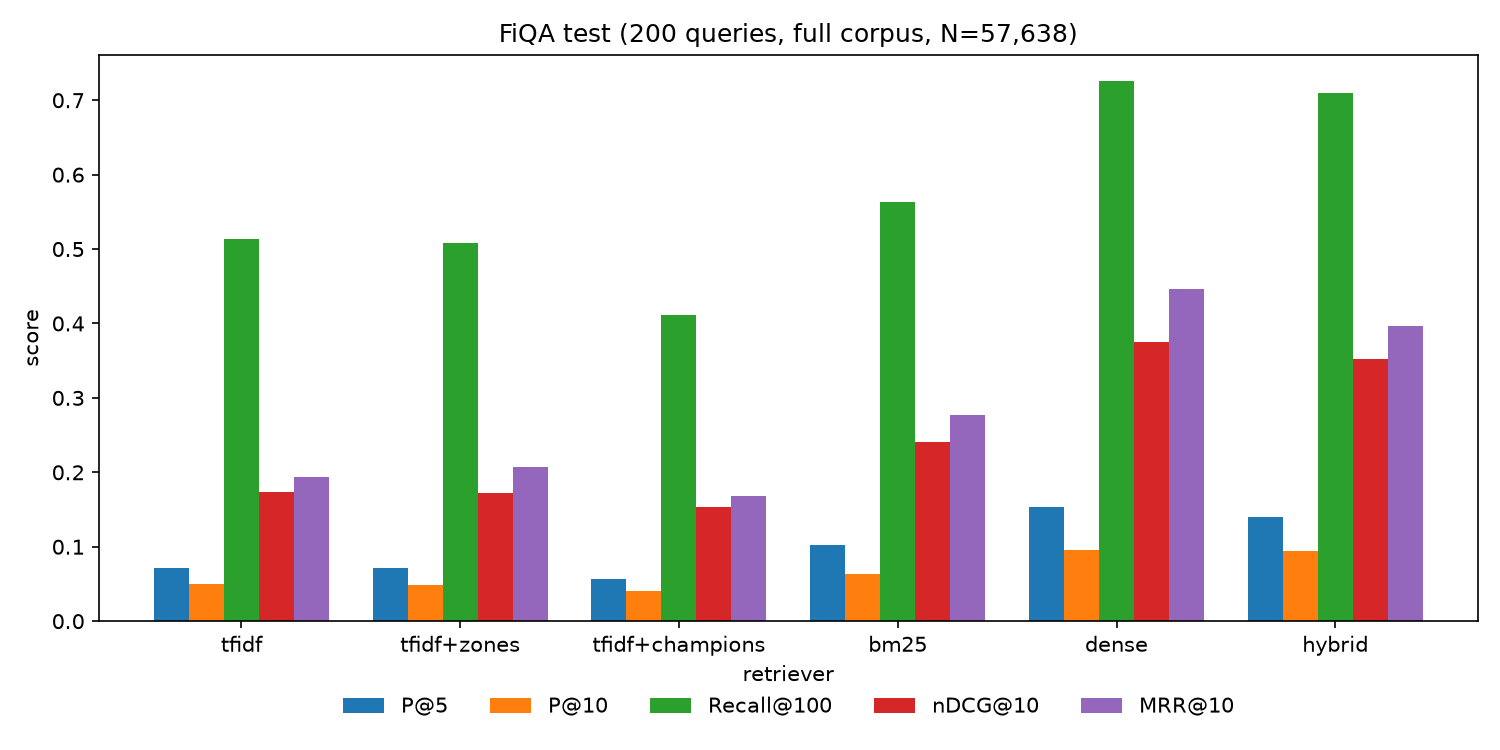
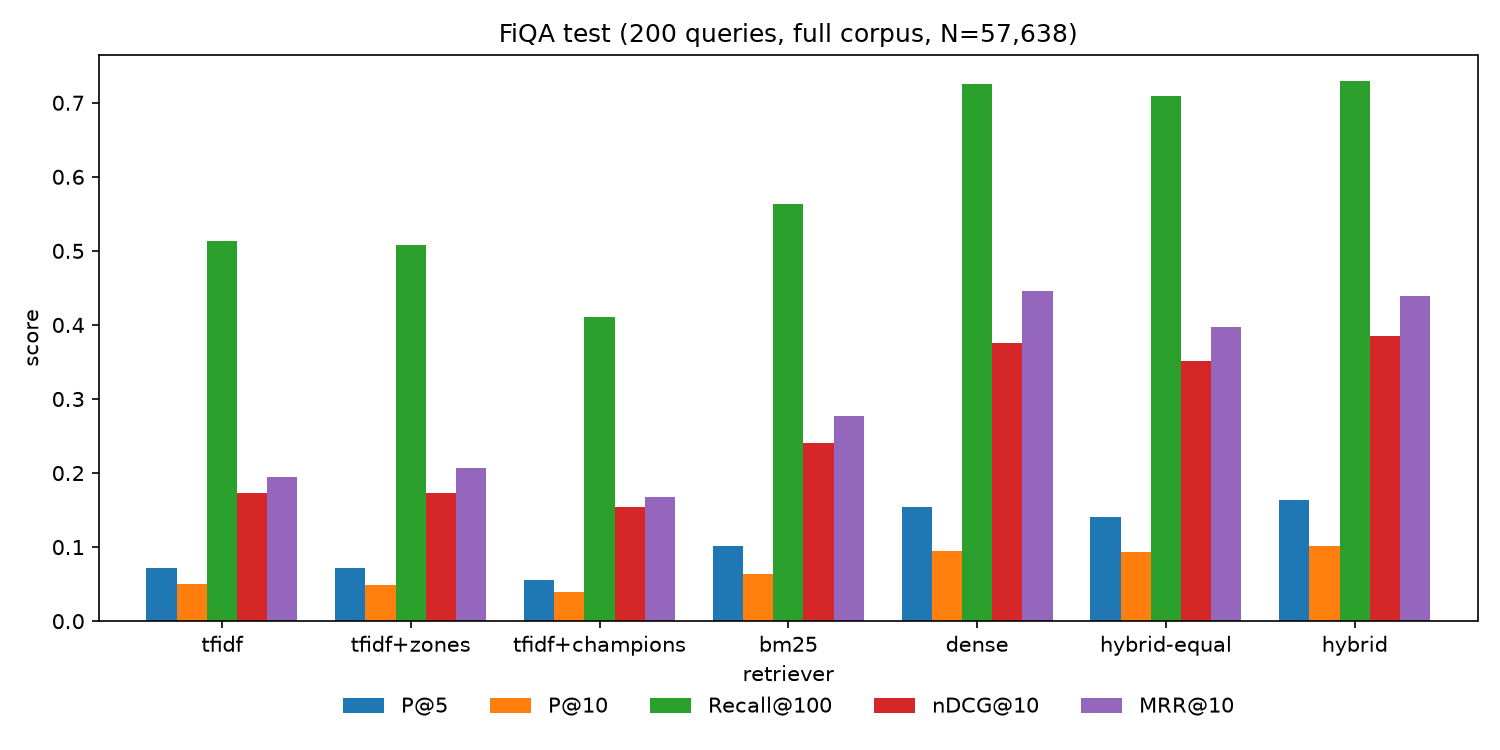
Weighted RRF tuned on dev; paired significance test vs dense

diff --git a/src/eval.py b/src/eval.py
@@ -3,6 +3,7 @@
     python -m src.eval retrievers [--full] [--only bm25 tfidf ...]
     python -m src.eval ablation   [--full]
     python -m src.eval zones      [--full]     # tune w_title on the dev split
+    python -m src.eval rrf        [--full]     # tune weighted-RRF w_dense and k on the dev split
     python -m src.eval citeguard  [--full]     # corruption test; tunes alpha/threshold on dev
     python -m src.eval labels                  # dump answers for manual labelling
     python -m src.eval agreement               # agreement once labels are filled in
@@ -26,7 +27,7 @@ from src.build import get_index
 from src.citeguard import SUPPORTED, CiteGuard, LexicalScorer, NLIScorer
 from src.config import load_config, path
 from src.data import load_qrels, load_queries, query_sample
-from src.metrics import mrr_at_k, ndcg_at_k, precision_at_k, recall_at_k
+from src.metrics import mrr_at_k, ndcg_at_k, paired_randomization, precision_at_k, recall_at_k
 from src.retrievers import ALL, SPARSE, make_retriever
 from src.text import TextProcessor
 
@@ -40,8 +41,9 @@ def results_dir():
     return d
 
 
-def evaluate(retriever, queries: dict[str, str], qrels: dict, depth: int = 100) -> dict:
-    """Mean metrics and mean latency (ms) of one retriever over the query set."""
+def evaluate(retriever, queries: dict[str, str], qrels: dict, depth: int = 100, per_query: list | None = None) -> dict:
+    """Mean metrics and mean latency (ms) of one retriever over the query set.
+    If `per_query` is a list, the per-query metric rows are appended to it."""
     rows, lat = [], []
     for qid, text in queries.items():
         t0 = time.perf_counter()
@@ -53,6 +55,8 @@ def evaluate(retriever, queries: dict[str, str], qrels: dict, depth: int = 100) 
             "Recall@100": recall_at_k(ranked, rel, 100), "nDCG@10": ndcg_at_k(ranked, rel, 10),
             "MRR@10": mrr_at_k(ranked, rel, 10),
         })
+    if per_query is not None:
+        per_query.extend(rows)
     out = pd.DataFrame(rows).mean().to_dict()
     out["latency_ms"] = sum(lat) / len(lat)
     return out
@@ -89,17 +93,38 @@ def run_retrievers(cfg, full: bool, names: list[str]) -> pd.DataFrame:
     queries, qrels = eval_queries(cfg)
     idx = get_index(cfg, full)
     mode = "full" if full else "sample"
-    rows = {}
+    rows, per_query = {}, {}
     for name in names:
         console.print(f"[bold]{name}[/] on {len(queries)} test queries ({mode}, N={idx.N:,})")
-        rows[name] = evaluate(make_retriever(name, cfg, idx, full), queries, qrels, cfg["retrieval"]["top_k"])
+        per_query[name] = []
+        rows[name] = evaluate(make_retriever(name, cfg, idx, full), queries, qrels,
+                              cfg["retrieval"]["top_k"], per_query[name])
     df = pd.DataFrame(rows).T
     df.index.name = "retriever"
     df.to_csv(results_dir() / f"retrievers_{mode}.csv", float_format="%.4f")
     bar_chart(df, f"FiQA test ({len(queries)} queries, {mode} corpus, N={idx.N:,})",
               results_dir() / f"retrievers_{mode}.png")
     show(df, f"retriever comparison — {mode}")
+    significance(per_query, mode)
     return df
+
+
+def significance(per_query: dict[str, list[dict]], mode: str) -> None:
+    """Paired randomisation tests of each hybrid against its best component (dense)."""
+    pairs = [(h, "dense") for h in ("hybrid", "hybrid-equal") if h in per_query and "dense" in per_query]
+    if not pairs:
+        return
+    rows = []
+    for a, b in pairs:
+        for m in ("nDCG@10", "MRR@10", "P@10", "Recall@100"):
+            x, y = [r[m] for r in per_query[a]], [r[m] for r in per_query[b]]
+            d = [i - j for i, j in zip(x, y)]
+            rows.append({"comparison": f"{a} vs {b}", "metric": m, "mean_diff": sum(d) / len(d),
+                         "wins": sum(v > 0 for v in d), "ties": sum(v == 0 for v in d),
+                         "losses": sum(v < 0 for v in d), "p_value": paired_randomization(x, y)})
+    df = pd.DataFrame(rows).set_index("comparison")
+    df.to_csv(results_dir() / f"significance_{mode}.csv", float_format="%.4f")
+    show(df, "paired randomisation tests (two-sided, 10k sign flips)")
 
 
 def run_ablation(cfg, full: bool) -> pd.DataFrame:
@@ -140,6 +165,39 @@ def run_zones(cfg, full: bool) -> pd.DataFrame:
     df.index.name = "zone weights (dev)"
     df.to_csv(results_dir() / f"zones_dev_{'full' if full else 'sample'}.csv", float_format="%.4f")
     show(df, "zone-weight tuning on dev")
+    return df
+
+
+def run_rrf(cfg, full: bool) -> pd.DataFrame:
+    """Tune weighted RRF (w_dense, k) on dev queries. Each base run is retrieved once and
+    fused in memory for every grid point."""
+    from src.dense import HybridRetriever
+
+    queries, qrels = eval_queries(cfg, "dev")
+    idx = get_index(cfg, full)
+    depth = cfg["retrieval"]["top_k"]
+    bases = [make_retriever(n, cfg, idx, full) for n in ("bm25", "dense")]
+    runs = {q: [[h.doc_id for h in r.search(t, k=depth)] for r in bases] for q, t in queries.items()}
+    rows = []
+    for k in cfg["experiment"]["rrf_k_grid"]:
+        for w in cfg["experiment"]["rrf_w_dense_grid"]:
+            ranked = {q: [d for d, _ in HybridRetriever.fuse(runs[q], k, [1 - w, w])[:depth]] for q in queries}
+            m = {name: sum(f(ranked[q], qrels[q], kk) for q in queries) / len(queries)
+                 for name, f, kk in [("nDCG@10", ndcg_at_k, 10), ("MRR@10", mrr_at_k, 10),
+                                     ("Recall@100", recall_at_k, 100), ("P@10", precision_at_k, 10)]}
+            rows.append({"k": k, "w_dense": w, **m})
+    for name, i in (("bm25 alone", 0), ("dense alone", 1)):
+        rel = [(runs[q][i], qrels[q]) for q in queries]
+        rows.append({"k": None, "w_dense": name, "nDCG@10": sum(ndcg_at_k(r, g, 10) for r, g in rel) / len(rel),
+                     "MRR@10": sum(mrr_at_k(r, g, 10) for r, g in rel) / len(rel),
+                     "Recall@100": sum(recall_at_k(r, g, 100) for r, g in rel) / len(rel),
+                     "P@10": sum(precision_at_k(r, g, 10) for r, g in rel) / len(rel)})
+    df = pd.DataFrame(rows)
+    df.to_csv(results_dir() / f"rrf_dev_{'full' if full else 'sample'}.csv", index=False, float_format="%.4f")
+    grid = df[df.k.notna()]
+    best = grid.loc[grid["nDCG@10"].idxmax()]
+    show(df.set_index("w_dense"), "weighted RRF tuning on dev")
+    console.print(f"[bold]best on dev:[/] k={int(best.k)}, w_dense={best.w_dense} (nDCG@10 {best['nDCG@10']:.4f})")
     return df
 
 
@@ -359,7 +417,7 @@ def agreement(cfg) -> dict:
 
 def main():
     ap = argparse.ArgumentParser(description=__doc__, formatter_class=argparse.RawDescriptionHelpFormatter)
-    ap.add_argument("experiment", choices=["retrievers", "ablation", "zones", "citeguard", "labels", "agreement"])
+    ap.add_argument("experiment", choices=["retrievers", "ablation", "zones", "rrf", "citeguard", "labels", "agreement"])
     ap.add_argument("--full", action="store_true")
     ap.add_argument("--only", nargs="*", default=None)
     ap.add_argument("--no-nli", action="store_true", help="citeguard: skip the NLI checker")
@@ -372,6 +430,8 @@ def main():
         run_ablation(cfg, args.full)
     elif args.experiment == "zones":
         run_zones(cfg, args.full)
+    elif args.experiment == "rrf":
+        run_rrf(cfg, args.full)
     elif args.experiment == "citeguard":
         run_citeguard(cfg, args.full, nli=not args.no_nli)
     elif args.experiment == "labels":

diff --git a/src/dense.py b/src/dense.py
@@ -47,19 +47,28 @@ class DenseRetriever:
 
 
 class HybridRetriever:
-    """Reciprocal Rank Fusion: score(d) = Σ_r 1 / (k + rank_r(d)), ranks starting at 1."""
+    """Weighted Reciprocal Rank Fusion: score(d) = Σ_r w_r / (k + rank_r(d)), ranks from 1.
+    Equal weights give plain RRF (Cormack et al., 2009)."""
     name = "hybrid"
 
-    def __init__(self, retrievers, k: int = 60, depth: int = 100):
-        self.retrievers, self.k, self.depth = retrievers, k, depth
+    def __init__(self, retrievers, k: int = 60, depth: int = 100, weights: list[float] | None = None,
+                 name: str = "hybrid"):
+        self.retrievers, self.k, self.depth, self.name = retrievers, k, depth, name
+        self.weights = weights or [1.0] * len(retrievers)
+
+    @staticmethod
+    def fuse(runs: list[list[str]], k: int, weights: list[float]) -> list[tuple[str, float]]:
+        """Fuse ranked doc-id lists; returns (doc_id, score) best first (ties by doc id)."""
+        fused: dict[str, float] = defaultdict(float)
+        for run, w in zip(runs, weights):
+            for rank, d in enumerate(run, 1):
+                fused[d] += w / (k + rank)
+        return sorted(fused.items(), key=lambda x: (-x[1], x[0]))
 
     def search(self, query: str, k: int = 10, explain: bool = False) -> list[Hit]:
-        fused: dict[str, float] = defaultdict(float)
-        parts: dict[str, dict[str, float]] = defaultdict(dict)
-        for r in self.retrievers:
-            for rank, h in enumerate(r.search(query, k=max(k, self.depth)), 1):
-                s = 1 / (self.k + rank)
-                fused[h.doc_id] += s
-                parts[h.doc_id][r.name] = s
-        ranked = sorted(fused.items(), key=lambda x: (-x[1], x[0]))[:k]
-        return [Hit(d, s, parts[d] if explain else {}) for d, s in ranked]
+        runs = [[h.doc_id for h in r.search(query, k=max(k, self.depth))] for r in self.retrievers]
+        ranked = self.fuse(runs, self.k, self.weights)[:k]
+        if not explain:
+            return [Hit(d, s) for d, s in ranked]
+        parts = [{d: w / (self.k + i) for i, d in enumerate(run, 1)} for run, w in zip(runs, self.weights)]
+        return [Hit(d, s, {r.name: p[d] for r, p in zip(self.retrievers, parts) if d in p}) for d, s in ranked]

diff --git a/src/retrievers.py b/src/retrievers.py
@@ -5,7 +5,7 @@ from src.index import InvertedIndex
 from src.sparse import BM25Retriever, TfidfRetriever
 
 SPARSE = ["tfidf", "tfidf+zones", "tfidf+champions", "bm25"]
-ALL = SPARSE + ["dense", "hybrid"]
+ALL = SPARSE + ["dense", "hybrid", "hybrid-equal"]
 
 
 def make_retriever(name: str, cfg: dict, index: InvertedIndex, full: bool = False):
@@ -18,11 +18,15 @@ def make_retriever(name: str, cfg: dict, index: InvertedIndex, full: bool = Fals
         return TfidfRetriever(index, champion_r=cfg["index"]["champion_r"])
     if name == "bm25":
         return BM25Retriever(index, k1=r["bm25_k1"], b=r["bm25_b"])
-    if name in ("dense", "hybrid"):
+    if name in ("dense", "hybrid", "hybrid-equal"):
         from src.dense import DenseRetriever, HybridRetriever
 
         dense = DenseRetriever.for_index(cfg, index, full)
         if name == "dense":
             return dense
-        return HybridRetriever([BM25Retriever(index, r["bm25_k1"], r["bm25_b"]), dense], k=r["rrf_k"])
+        bm25 = BM25Retriever(index, r["bm25_k1"], r["bm25_b"])
+        if name == "hybrid-equal":                   # plain RRF, k=60, for comparison
+            return HybridRetriever([bm25, dense], k=60, name="hybrid-equal")
+        w = r["rrf_w_dense"]
+        return HybridRetriever([bm25, dense], k=r["rrf_k"], weights=[1 - w, w])
     raise ValueError(f"unknown retriever {name!r}; choose from {ALL}")

diff --git a/tests/test_hybrid.py b/tests/test_hybrid.py
@@ -18,3 +18,17 @@ def test_rrf_fuses_ranks():
     assert [x.doc_id for x in hits] == ["y", "x", "w", "z"]
     assert hits[0].score == pytest.approx(1 / 62 + 1 / 61)
     assert hits[0].terms == {"a": pytest.approx(1 / 62), "b": pytest.approx(1 / 61)}
+
+
+def test_weighted_rrf_scales_each_retriever():
+    h = HybridRetriever([Fixed("a", ["x", "y"]), Fixed("b", ["y", "x"])], k=60, weights=[0.25, 0.75])
+    hits = h.search("q", k=2, explain=True)
+    assert [x.doc_id for x in hits] == ["y", "x"]
+    assert hits[0].score == pytest.approx(0.25 / 62 + 0.75 / 61)
+    assert hits[0].terms == {"a": pytest.approx(0.25 / 62), "b": pytest.approx(0.75 / 61)}
+
+
+def test_fuse_matches_search():
+    runs = [["x", "y", "z"], ["y", "w"]]
+    fused = HybridRetriever.fuse(runs, k=60, weights=[1.0, 2.0])
+    assert [d for d, _ in fused] == ["y", "w", "x", "z"]

diff --git a/src/metrics.py b/src/metrics.py
@@ -25,3 +25,13 @@ def ndcg_at_k(ranked, qrels, k):
     ideal = sorted(qrels.values(), reverse=True)[:k]
     idcg = sum(g / math.log2(i + 1) for i, g in enumerate(ideal, 1))
     return dcg / idcg if idcg else 0.0
+
+
+def paired_randomization(a, b, trials: int = 10000, seed: int = 42) -> float:
+    """Two-sided paired randomisation (sign-flip) test on per-query scores; returns the p-value."""
+    import numpy as np
+
+    diff = np.asarray(a, float) - np.asarray(b, float)
+    observed = abs(diff.mean())
+    signs = np.random.default_rng(seed).choice([-1.0, 1.0], size=(trials, len(diff)))
+    return float(np.mean(np.abs((signs * diff).mean(axis=1)) >= observed - 1e-12))

diff --git a/tests/test_metrics.py b/tests/test_metrics.py
@@ -24,3 +24,10 @@ def test_ndcg():
     dcg = 1 / math.log2(2) + 1 / math.log2(4)
     idcg = 1 / math.log2(2) + 1 / math.log2(3) + 1 / math.log2(4)
     assert ndcg_at_k(RANKED, QRELS, 10) == pytest.approx(dcg / idcg)
+
+
+def test_paired_randomization():
+    from src.metrics import paired_randomization
+
+    assert paired_randomization([1.0] * 30, [0.0] * 30) < 0.01      # consistent win
+    assert paired_randomization([1, 0] * 15, [0, 1] * 15) == 1.0    # no mean difference

diff --git a/README.md b/README.md
@@ -12,7 +12,7 @@ flowchart LR
     Q[question] --> TP[text pipeline<br/>src/text.py]
     TP --> SP[sparse: tf-idf lnc.ltc / BM25<br/>src/sparse.py over src/index.py]
     Q --> DE[dense: MiniLM + FAISS<br/>src/dense.py]
-    SP --> RRF[hybrid RRF k=60]
+    SP --> RRF[hybrid: weighted RRF<br/>dev-tuned k, w_dense]
     DE --> RRF
     RRF --> TOP[top-5 numbered chunks]
     TOP --> LLM[LLM, one citation per sentence<br/>src/generate.py]
@@ -44,6 +44,7 @@ make test                       # unit tests (toy corpus, hand-verified scores)
 | retriever comparison | `make eval-retrievers` (`FULL=` for the 5k sample) |
 | stemming / stop-word ablation | `make eval-ablation` |
 | tune zone weights on dev | `make eval-zones` |
+| tune weighted RRF on dev | `make eval-rrf` |
 | CiteGuard corruption test | `make eval-citeguard` |
 | manual labelling | `make labels`, fill `human_label` in `results/manual_labels.csv`, then `make agreement` |
 | web page | `make app` (bare Streamlit) |
@@ -78,7 +79,8 @@ FiQA has **no titles** (all 57,638 are empty), so the title zone holds each pass
 | tf-idf VSM, SMART lnc.ltc, cosine, term-at-a-time accumulators, heap top-K | `src/sparse.py` (`TfidfRetriever`) |
 | zone weighting `w_title·title + w_body·body` | `src/sparse.py` |
 | Okapi BM25 (k1=1.2, b=0.75) | `src/sparse.py` (`BM25Retriever`) |
-| dense retrieval, Reciprocal Rank Fusion | `src/dense.py` |
+| dense retrieval, (weighted) Reciprocal Rank Fusion | `src/dense.py` |
+| significance: paired randomisation test | `src/metrics.py`, `src/eval.py` (`significance`) |
 | P@k, Recall@k, nDCG@k, MRR@k | `src/metrics.py` |
 | CiteGuard support = α·tf-idf cosine + (1−α)·term coverage; BM25 re-attribution | `src/citeguard.py` |
 | experiments | `src/eval.py` |
@@ -100,14 +102,21 @@ Anything tuned (zone weight, α, thresholds) was tuned on the **dev** split only
 | tf-idf + zones (w_title=0.1) | 0.072 | 0.049 | 0.509 | 0.173 | 0.207 | 4.7 |
 | tf-idf + champion lists (r=200) | 0.056 | 0.040 | 0.411 | 0.154 | 0.168 | **0.33** |
 | BM25 (k1=1.2, b=0.75) | 0.102 | 0.064 | 0.564 | 0.241 | 0.277 | 5.3 |
-| dense (MiniLM-L6 + FAISS) | **0.154** | **0.095** | **0.725** | **0.376** | **0.446** | 9.3 |
-| hybrid (RRF k=60, BM25 + dense) | 0.140 | 0.094 | 0.709 | 0.352 | 0.397 | 20.1 |
+| dense (MiniLM-L6 + FAISS) | 0.154 | 0.095 | 0.725 | 0.376 | **0.446** | 12.2 |
+| hybrid, plain RRF (k=60, equal weights) | 0.140 | 0.094 | 0.709 | 0.352 | 0.397 | 20.4 |
+| hybrid, weighted RRF (k=10, w_dense=0.6, dev-tuned) | **0.163** | **0.102** | **0.729** | **0.386** | 0.439 | 21.0 |
 
 * **Sanity check:** our from-scratch BM25 scores nDCG@10 = 0.241, against the 0.236 reported for BM25 on FiQA in the BEIR paper.
 * BM25's length normalisation and saturating tf beat lnc.ltc by +0.07 nDCG@10.
 * Champion lists are **11.7× faster** than the full tf-idf scan but lose 0.10 Recall@100: the classic speed/quality trade-off.
 * Zones: the dev sweep (`results/zones_dev_full.csv`) picked w_title = 0.1 (+0.016 nDCG@10 on dev). On test it is neutral (MRR +0.013, nDCG ±0), as expected for a "title" that duplicates the body (ADR 0002).
-* Hybrid is *below* dense. Equal-weight RRF lets the much weaker BM25 run pull down the dense ranking. Weighted RRF is the obvious next step.
+* **Hybrid vs dense.** Plain RRF is *below* dense (nDCG@10 −0.024), because equal weights let the much weaker BM25 run
+  pull the dense ranking down. Weighted RRF, `score(d) = (1−w)/(k+rank_bm25) + w/(k+rank_dense)`, was tuned on 100 dev
+  queries (`results/rrf_dev_full.csv`: k=10, w_dense=0.6, dev nDCG@10 0.435 vs 0.388 for dense alone). On test it
+  beats dense on P@5, P@10, Recall@100 and nDCG@10 (+0.010), but trails on MRR@10 (−0.008). **None of these test
+  differences is significant.** In a paired randomisation test (`results/significance_full.csv`), nDCG@10 gives
+  p = 0.44 (49 wins, 103 ties, 48 losses) and P@10 gives p = 0.05. Honest reading: weighted fusion removes plain
+  RRF's penalty and is at least as good as dense, but 200 queries cannot separate the two.
 
 ### 2. Ablation — `results/ablation_full.{csv,png}`
 
@@ -123,7 +132,7 @@ changes quality, but makes queries **6× faster**, because stop words have the l
 
 ### 3. CiteGuard corruption test — `results/citeguard_*.{csv,png}`
 
-Answers were generated (Groq `openai/gpt-oss-120b`, hybrid top-5) for 30 dev and 40 test queries.
+Answers were generated (Groq `openai/gpt-oss-120b`, top-5 from plain-RRF hybrid; they are cached, so later retriever changes do not alter this experiment) for 30 dev and 40 test queries.
 Then 30% of citations were swapped to a different retrieved chunk at random (seeded), so we know
 exactly which citations are wrong. A checker *flags* a sentence when support(sentence, cited chunk) < τ.
 α and τ were tuned on dev (`citeguard_alpha_dev.csv`: best α = 0.75, τ = 0.18).
@@ -146,12 +155,12 @@ sentence can pass. The manual-labelling step (`make labels` → `make agreement`
 ## What works / what's planned
 
 Works: everything in the pipeline above, end to end in the CLI and the Streamlit page; all experiments
-write CSV + PNG to `results/`; 31 unit tests, including lnc.ltc and BM25 scores on a toy corpus checked against
+write CSV + PNG to `results/`; 34 unit tests, including lnc.ltc and BM25 scores on a toy corpus checked against
 hand calculation (`tests/test_sparse.py`).
 
 Planned / not done yet:
 * Manual labels: `results/manual_labels.csv` has 70 sentences from 20 real answers, ready to label. Agreement (accuracy, Cohen's κ) is computed by `make agreement`.
-* Weighted RRF, or tuning the RRF k on dev, so the hybrid at least matches dense.
+* More eval queries (all 648 test queries) to tell whether weighted hybrid really beats dense.
 * A sentence-level support score that also penalises unsupported numbers and entities (the main miss above).
 * BM25F over the zones, instead of applying zone weighting to tf-idf only.
 
